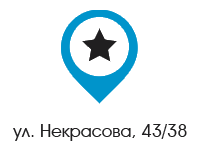
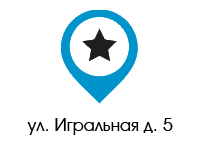
update seo fields

Changed region(s): [[0.06, 0.7733, 0.69, 0.9333], [0.69, 0.7733, 0.96, 0.9333]]

diff --git a/frontend/web/js/scripts.js b/frontend/web/js/scripts.js
@@ -161,15 +161,17 @@ $(document).ready(function() {
 
     function initMap(){
 
+        var res_org = getCoord("г.Москва ул. Игральная д. 5");
 	    if( $("div").is("#fmap") )
 	    {
+
 	        footMap = new ymaps.Map("fmap", {
-	            center: [42.979622, 47.488841],
+	            center: [res_org[1], res_org[0]],
 	            zoom: 16,
 	            controls: []
 	        });
 
-	        footPlacemark = new ymaps.Placemark( [42.979622, 47.488841], {balloonContent: ''}, mainMark );
+	        footPlacemark = new ymaps.Placemark( [res_org[1], res_org[0]], {balloonContent: ''}, mainMark );
 
 	        footMap.geoObjects.add(footPlacemark);
 
@@ -178,12 +180,13 @@ $(document).ready(function() {
 
 	    if( $("div").is("#map-org") )
 	    {
+            var res = getCoord("г.Москва ул. Игральная д. 5");
 	        orgMap = new ymaps.Map("map-org", {
-	            center: [42.979622, 47.488841],
+	            center: [res_org[1], res_org[0]],
 	            zoom: 16
 	        });
 
-	        orgPlacemark = new ymaps.Placemark( [42.979622, 47.488841], {balloonContent: ''}, unknowMark );
+	        orgPlacemark = new ymaps.Placemark( [res_org[1], res_org[0]], {balloonContent: ''}, unknowMark );
 	        orgMap.geoObjects.add(orgPlacemark);
 
 	    	console.log("Org map initialised");

diff --git a/frontend/themes/basic/layouts/main.php b/frontend/themes/basic/layouts/main.php
@@ -73,7 +73,7 @@ AppAsset::register($this);
                     <a class="i tw"></a>
                     <a class="i ok"></a>
                 </div>
-                <span class="cred">КЛУБ ЧИСТЫХ АВТО © 2014 • <a href="http://kagama.ru">KAGAMA</a></span>
+                <span class="cred">КЛУБ ЧИСТЫХ АВТО © 2014 • <a href="http://kagama.ru" title="Сайт разработан компанией ООО Кагама">KAGAMA</a></span>
             </div>
         </div>
     </div>

diff --git a/frontend/modules/organization/views/default/show-on-map.php b/frontend/modules/organization/views/default/show-on-map.php
@@ -7,6 +7,10 @@
  */
 use yii\web\View;
 
+$this->title = "Организации на карте - ".Yii::$app->params['seo_title'];
+Yii::$app->view->registerMetaTag(['name' => 'keywords', 'content' => $model->seo_keywords]);
+Yii::$app->view->registerMetaTag(['name' => 'description', 'content' => $model->seo_description]);
+
 $js = "";
 if ($model)
     foreach ($model as $index => $orgModel) {

diff --git a/frontend/modules/organization/views/default/show.php b/frontend/modules/organization/views/default/show.php
@@ -8,7 +8,9 @@
 
 use yii\web\View;
 
-
+$this->title = $model->name." - ".$menu->seo_title." - ".Yii::$app->params['seo_title'];
+Yii::$app->view->registerMetaTag(['name' => 'keywords', 'content' => $model->seo_keywords]);
+Yii::$app->view->registerMetaTag(['name' => 'description', 'content' => $model->seo_description]);
 
 $js = "ymaps.ready(function(){";
 

diff --git a/frontend/modules/organization/views/default/index.php b/frontend/modules/organization/views/default/index.php
@@ -5,6 +5,11 @@
  * Date: 20.07.14
  * Time: 23:32
  */
+
+
+$this->title = $menu->seo_title." - ".Yii::$app->params['seo_title'];
+Yii::$app->view->registerMetaTag(['name' => 'keywords', 'content' => $menu->seo_keywords]);
+Yii::$app->view->registerMetaTag(['name' => 'description', 'content' => $menu->seo_description]);
 ?>
 <!-- Org select -->
 
